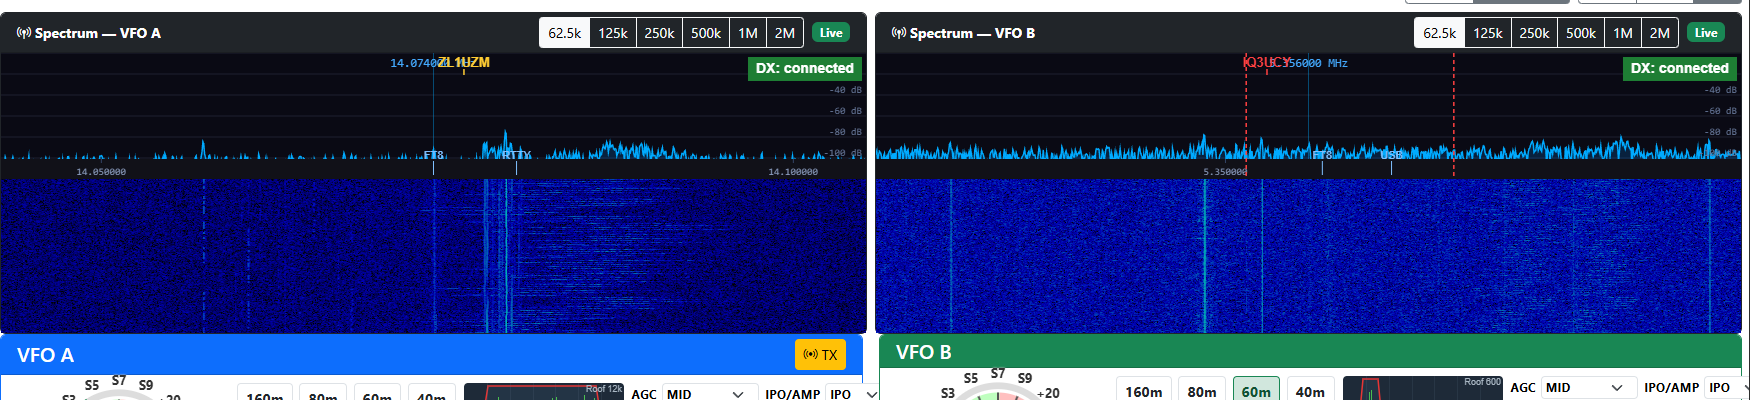
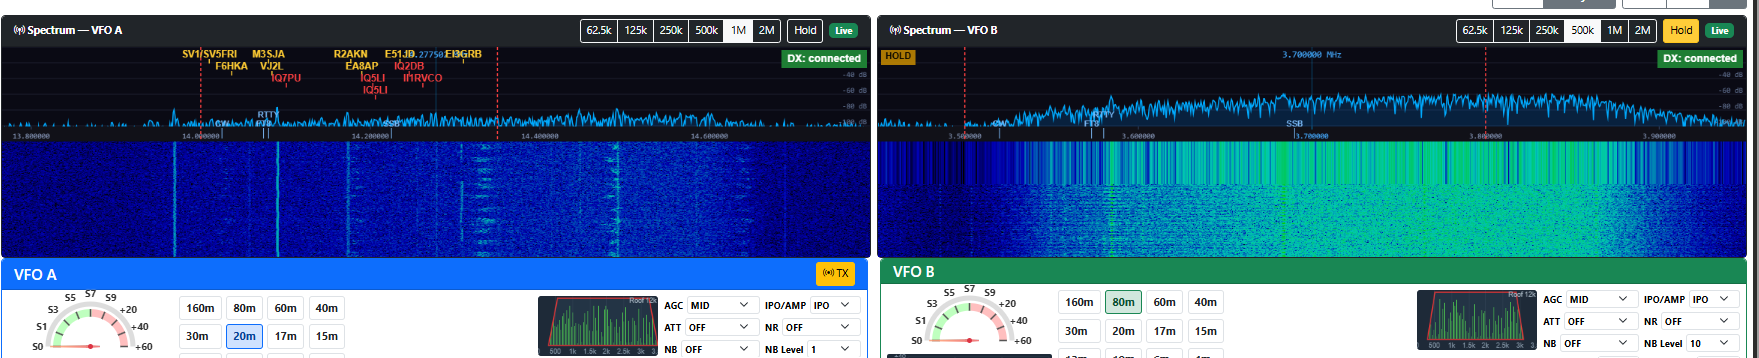
Docs: dual-SDR screenshots refreshed to show Hold feature
All three pictures re-taken by Colin to capture the new Hold feature
(yellow button + 'Hold' status badge + HOLD canvas banner) in action,
and DevelopScreen.png widened to include more of the surrounding
controls so users get a fuller sense of the main page layout.

- pictures/Spectrum_Stacked.png — VFO A streaming, VFO B frozen
- pictures/Spectrum_Side_By_Side.png — same Hold demo, side-by-side
- pictures/DevelopScreen.png — full main page in dual-SDR mode with
  meters top, spectrum middle, VFO controls bottom

USER_MANUAL §6.3 captions updated to describe what's actually shown
in the screenshots (VFO A live vs VFO B held) and a new explanatory
note pointing out the Hold feature is on display in both layout
screenshots.

diff --git a/USER_MANUAL.md b/USER_MANUAL.md
@@ -847,11 +847,13 @@ Both choices are remembered across page reloads via your browser's local storage
 
 **Stacked layout** — each panel uses the full width of the page, with a deeper waterfall trail per VFO. Best for spotting weak signals or studying the noise floor on one band while keeping an eye on the other:
 
-![Stacked dual-spectrum layout — VFO A on top, VFO B below, each at full width with full-height waterfall](pictures/Spectrum_Stacked.png)
+![Stacked dual-spectrum layout — VFO A on top streaming live, VFO B below frozen with a HOLD banner in the top-left corner (Hold button yellow, status badge yellow 'Hold'). Holds are per-VFO so one panel can be frozen for study while the other keeps streaming.](pictures/Spectrum_Stacked.png)
 
 **Side-by-side layout** — both spectra share the page width 50/50, giving you both bands on screen at once without scrolling. Better for working two bands simultaneously (e.g. SSB on VFO A, FT8 on VFO B):
 
-![Side-by-side dual-spectrum layout — VFO A on the left, VFO B on the right, each at half-width](pictures/Spectrum_Side_By_Side.png)
+![Side-by-side dual-spectrum layout — VFO A on the left streaming live, VFO B on the right frozen with a HOLD banner. Same independence as the stacked layout; only the geometry differs.](pictures/Spectrum_Side_By_Side.png)
+
+> **Both screenshots above show the Hold feature in action.** VFO A is streaming live with the green "Live" status badge; VFO B is frozen — its Hold button is filled yellow, its status badge says "Hold" in yellow, and a small `HOLD` banner sits in the top-left corner of the frozen canvas. Click the Hold button again to resume.
 
 #### Updating the band plan without a YWC release
 
